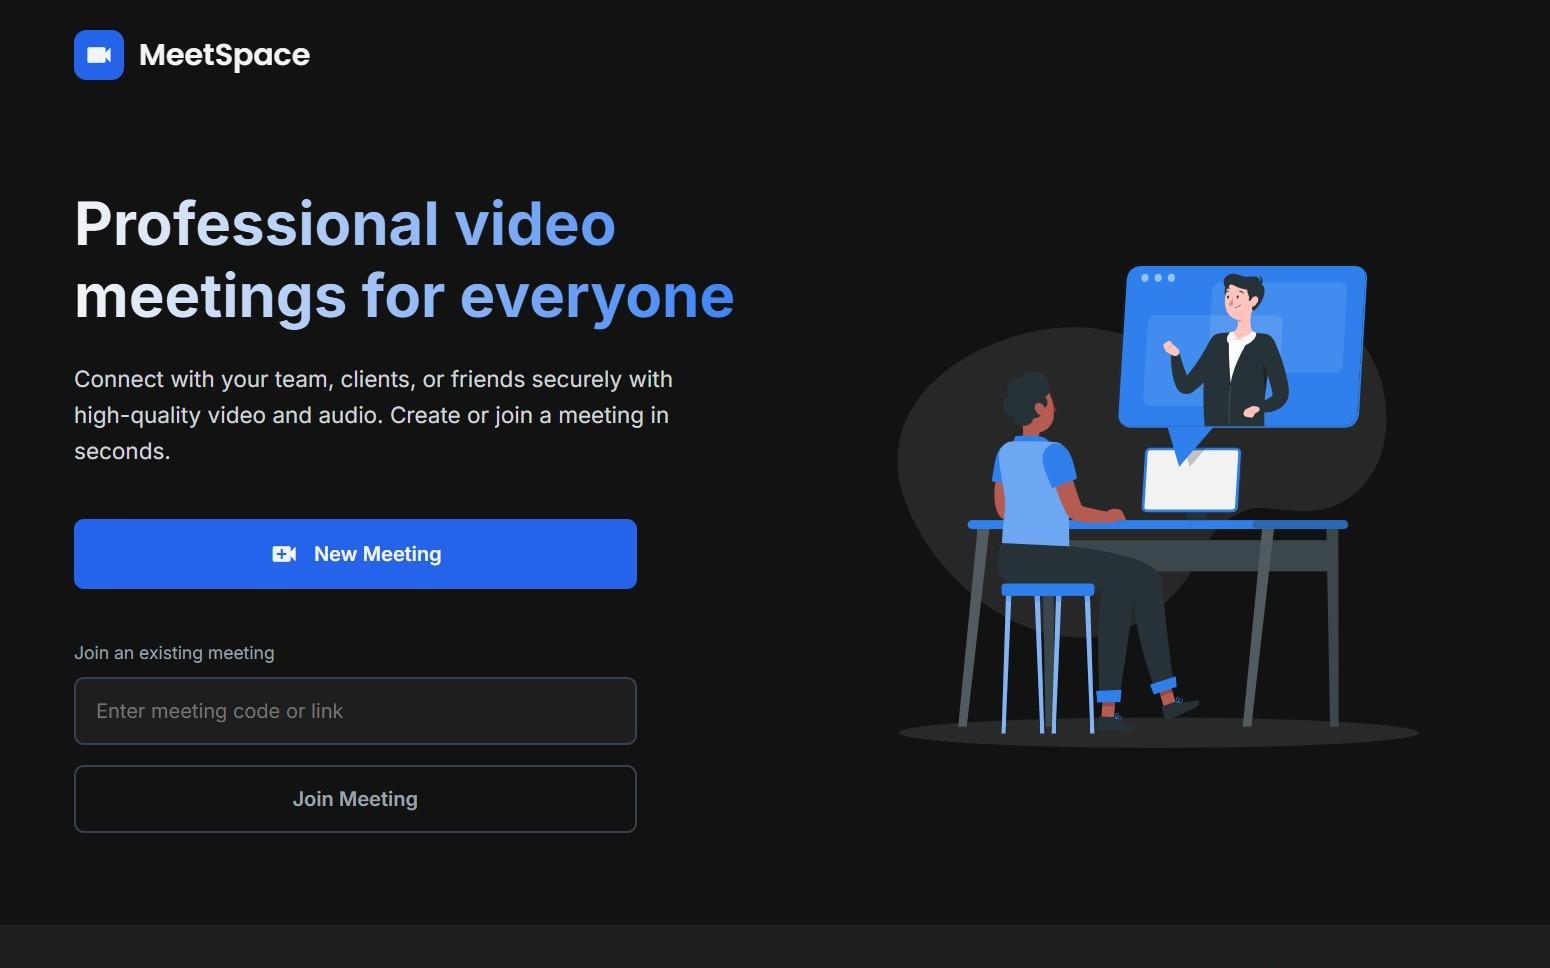
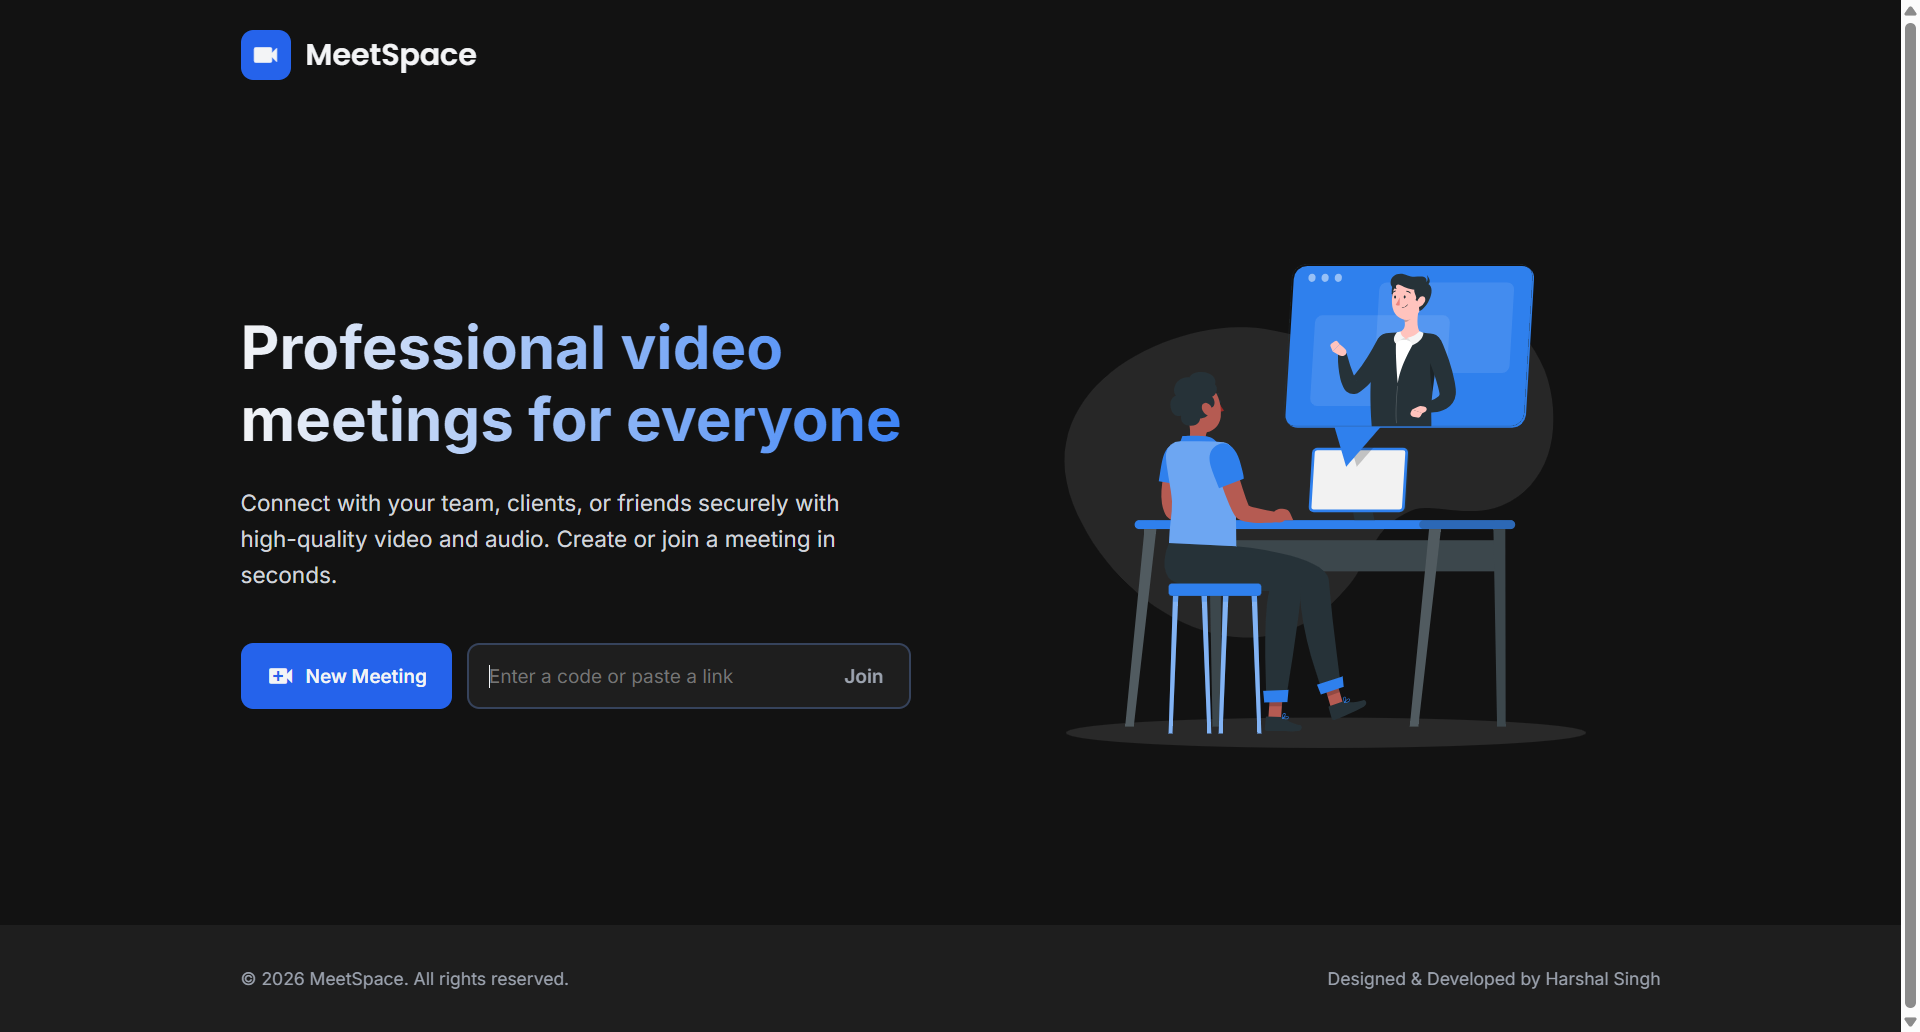
fix: meet space image and serialize overview

diff --git a/lib/google/serialize.ts b/lib/google/serialize.ts
@@ -347,7 +347,7 @@ function projectsFromRows(
         name: name ?? "",
         tagline: tagline ?? "",
         description: description ?? "",
-        overview: overview || fallback?.overview || "",
+        overview: overview ?? "",
         stack: splitPipe(stack).length ? splitPipe(stack) : (fallback?.stack ?? []),
         year: year ?? "",
         role: role ?? "",
@@ -381,11 +381,6 @@ function projectsFromRows(
               project.imageScrollDurationMs ?? fallback?.imageScrollDurationMs,
             imageScrollReturnMs:
               project.imageScrollReturnMs ?? fallback?.imageScrollReturnMs,
-            outcomes: project.outcomes?.length
-              ? project.outcomes
-              : (fallback?.outcomes ?? []),
-            metrics: project.metrics?.length ? project.metrics : (fallback?.metrics ?? []),
-            content: project.content?.length ? project.content : (fallback?.content ?? []),
           };
         })
       : seedContent.projects;
